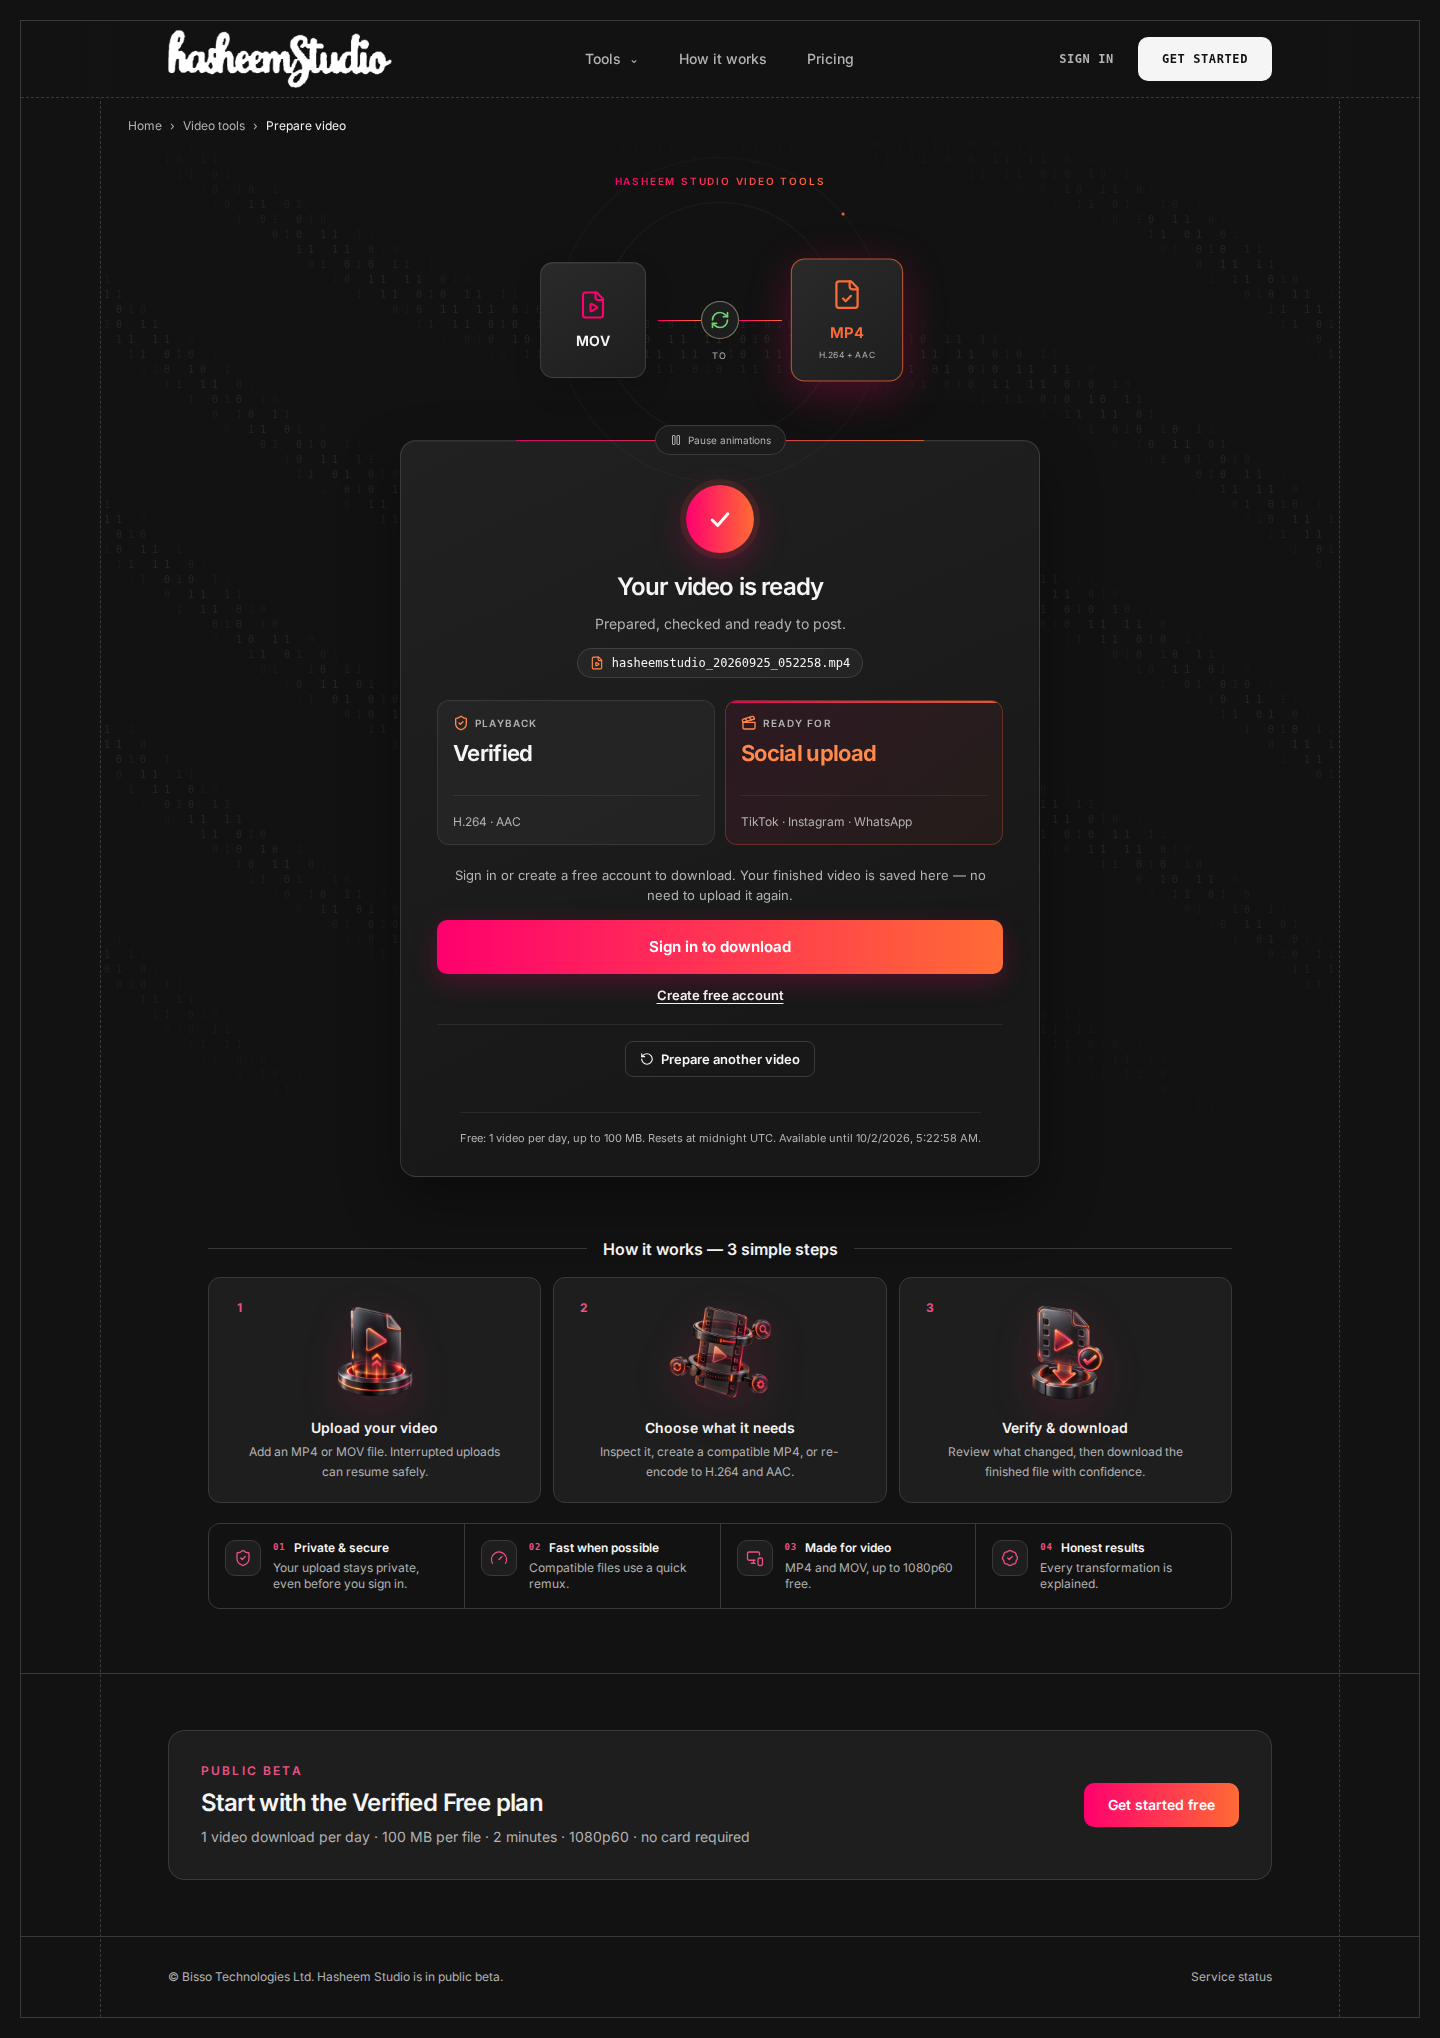
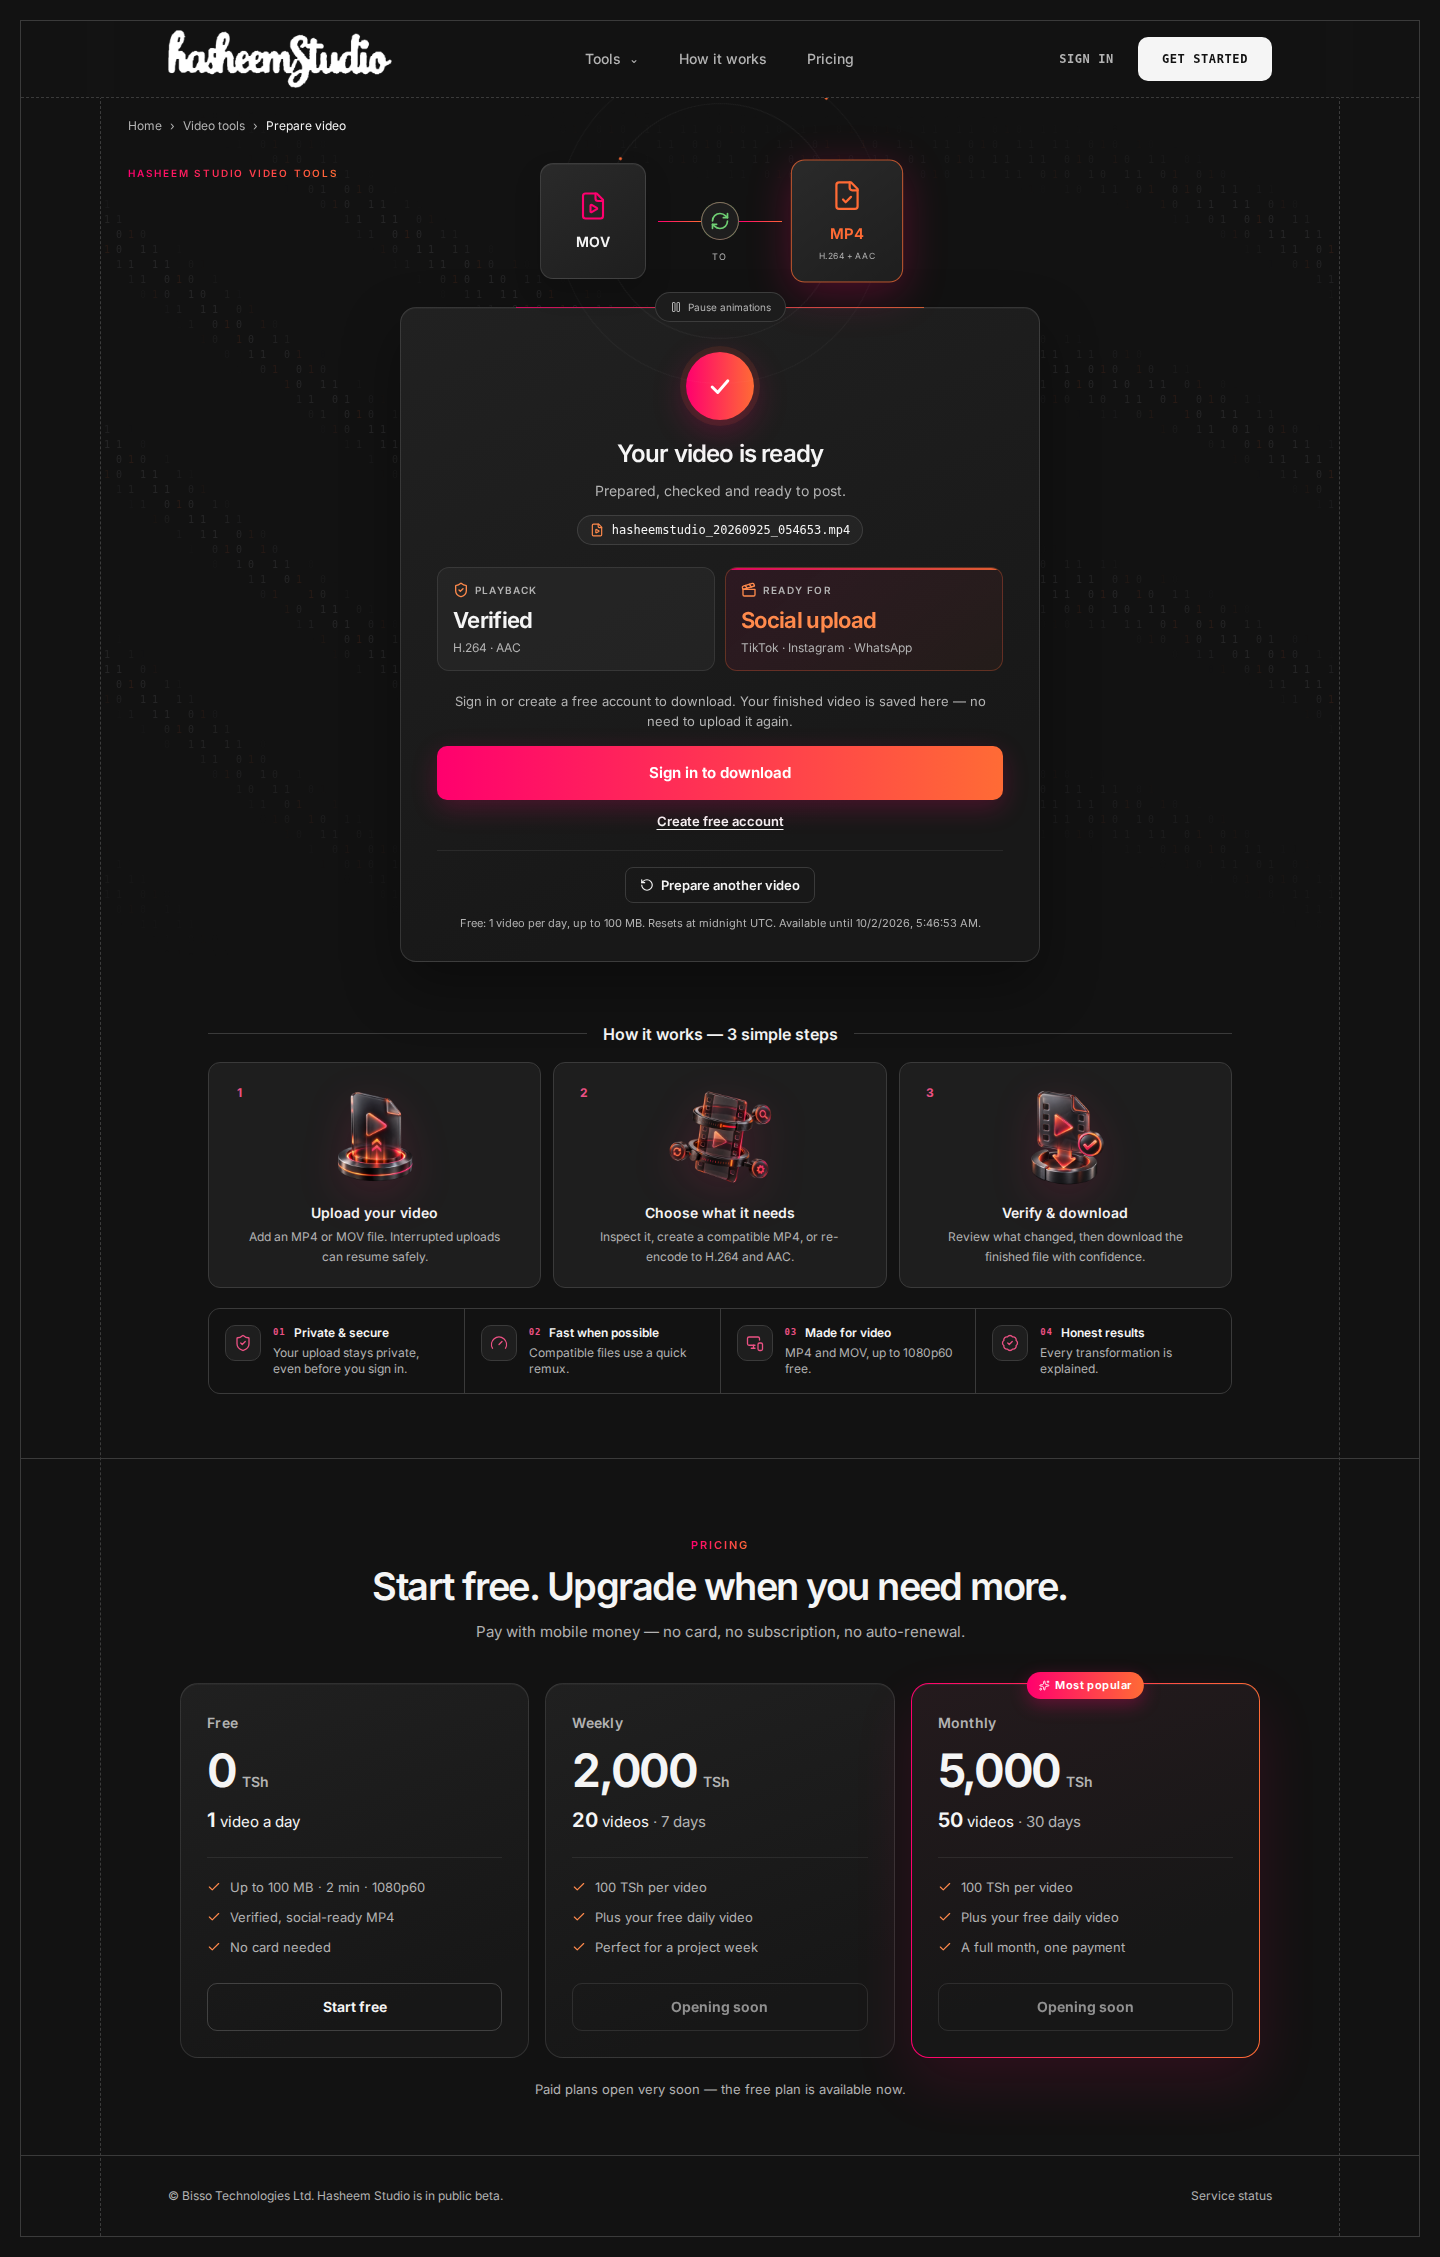
fix(web): tighten gap between MOV/MP4 tiles and the processing card
Claude-Session: https://claude.ai/code/session_01KMRJAcnX8NKK61hskr7mn6

diff --git a/apps/web/src/components/ConversionHero.css b/apps/web/src/components/ConversionHero.css
@@ -106,9 +106,9 @@
    centred directly above the card with real breathing room. ───────────────────────────────────────────── */
 .conversion-hero[data-focus] .conversion-hero__stage { grid-template-columns: minmax(0, 1fr); justify-items: center; gap: 6px; padding: 8px 0 30px; animation: hs-focus-in .45s ease-out both; }
 .conversion-hero[data-focus] .conversion-scene { height: 236px; }
-.conversion-hero[data-focus] .conversion-scene__pause { position: relative; left: auto; bottom: auto; z-index: 3; transform: none; margin: 10px auto 0; width: fit-content; min-height: 30px; padding: 6px 14px; border-radius: 999px; border: 1px solid rgb(255 255 255 / 14%); background: #1c1c1c; }
+.conversion-hero[data-focus] .conversion-scene__pause { position: relative; left: auto; bottom: auto; z-index: 3; transform: none; margin: 8px auto 0; width: fit-content; min-height: 30px; padding: 6px 14px; border-radius: 999px; border: 1px solid rgb(255 255 255 / 14%); background: #1c1c1c; }
 .conversion-hero[data-focus] .conversion-scene { height: auto; display: flex; flex-direction: column; align-items: center; }
-.conversion-hero[data-focus] .conversion-scene__visual { position: relative; inset: auto; width: 100%; height: 190px; }
+.conversion-hero[data-focus] .conversion-scene__visual { position: relative; inset: auto; width: 100%; height: 126px; }
 .conversion-hero[data-focus] .conversion-hero__stage { padding-bottom: 0; }
 .conversion-hero[data-focus] .hero-upload { margin-top: -15px; padding-top: 44px; }
 @keyframes hs-focus-in { from { opacity: .4; transform: translateY(-8px); } to { opacity: 1; transform: none; } }
@@ -165,7 +165,7 @@
   .hero-upload { margin-top: -56px; padding: 28px 20px 22px; }
   .conversion-hero[data-focus] .conversion-hero__stage { padding-bottom: 0; }
 .conversion-hero[data-focus] .hero-upload { margin-top: -15px; padding-top: 44px; }
-  .conversion-hero[data-focus] .conversion-scene__visual { height: 218px; }
+  .conversion-hero[data-focus] .conversion-scene__visual { height: 116px; }
   .hero-upload h2 { font-size: 21px; }
   .conversion-hero { margin-bottom: 42px; }
 }
